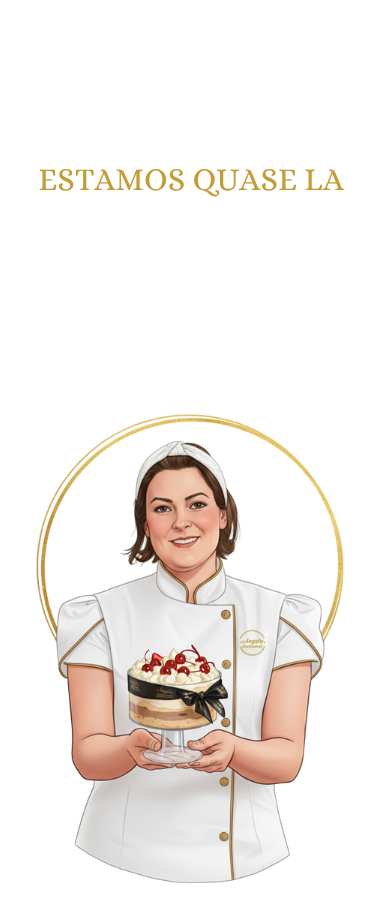
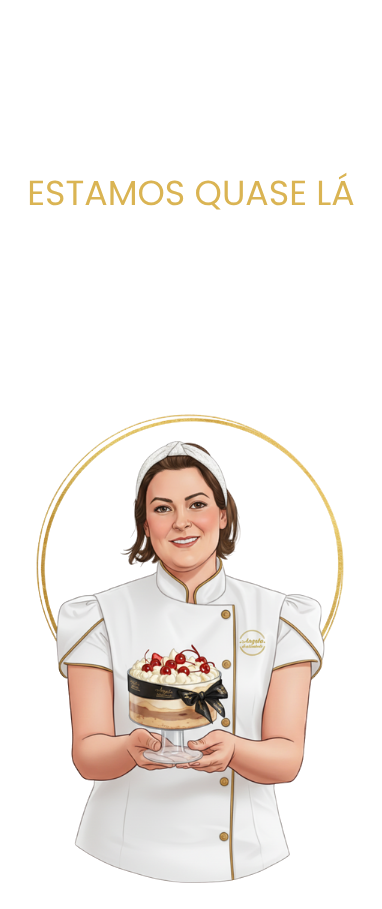
Ajustando Bio

diff --git a/menu.html b/menu.html
@@ -9,7 +9,7 @@
     <link rel="preconnect" href="https://fonts.googleapis.com" />
     <link rel="preconnect" href="https://fonts.gstatic.com" crossorigin />
     <link
-      href="https://fonts.googleapis.com/css2?family=Allura&family=Playfair+Display:wght@700&family=Poppins:wght@400;500;600&family=Dancing+Script:wght@400&display=swap"
+      href="https://fonts.googleapis.com/css2?family=Poppins:wght@400;500;600;700&display=swap"
       rel="stylesheet"
     />
     <link rel="stylesheet" href="menu.css" />
@@ -19,10 +19,10 @@
       href="https://cdn.jsdelivr.net/npm/flatpickr/dist/flatpickr.min.css"
     />
   </head>
-  <body class="bg-stone-50">
+  <body class="bg-stone-50 font-['Poppins']">
     <div
       class="fixed -right-16 top-1/2 -translate-y-1/2 text-[#D4AF37]/50 rotate-[-90deg] origin-bottom-right text-5xl pointer-events-none hidden md:block"
-      style="font-family: 'Dancing Script', cursive"
+      style="font-family: 'Poppins', sans-serif"
     >
       Angela Scatambulo
     </div>
@@ -30,7 +30,7 @@
       <div
         class="container mx-auto px-6 py-4 flex justify-between items-center"
       >
-        <h1 class="font-playfair text-2xl font-bold text-[#D4AF37]">
+        <h1 class="font-bold text-2xl text-[#D4AF37]">
           <a href="./menu.html">Scatambulo</a>
         </h1>
         <nav
@@ -142,7 +142,7 @@
             <div class="card-content p-4 flex flex-col justify-between flex-grow">
               <div>
                 <h3
-                  class="font-playfair text-xl font-semibold text-[#1C1C1C] mb-2 flex items-center gap-2"
+                  class="text-xl font-semibold text-[#1C1C1C] mb-2 flex items-center gap-2"
                 >
                   🍓 Nuvem de Morango
                 </h3>
@@ -219,7 +219,7 @@
             >
               <div>
                 <h3
-                  class="font-playfair text-xl font-semibold text-[#1C1C1C] mb-2 flex items-center gap-2"
+                  class="text-xl font-semibold text-[#1C1C1C] mb-2 flex items-center gap-2"
                 >
                    Doce de Leite Trufado
                 </h3>
@@ -293,7 +293,7 @@
             <div class="card-content p-4 flex flex-col justify-between flex-grow">
               <div>
               <h3
-                class="font-playfair text-xl font-semibold text-[#1C1C1C] mb-2 flex items-center gap-2"
+                class="text-xl font-semibold text-[#1C1C1C] mb-2 flex items-center gap-2"
               >
                 🌰 Strogonoff de Nozes
               </h3>
@@ -370,7 +370,7 @@
             <div class="card-content p-4 flex flex-col justify-between flex-grow">
               <div>
                 <h3
-                  class="font-playfair text-xl font-semibold text-[#1C1C1C] mb-2 flex items-center gap-2"
+                  class="text-xl font-semibold text-[#1C1C1C] mb-2 flex items-center gap-2"
                 >
                    Uva Crocante
                 </h3>
@@ -444,7 +444,7 @@
             >
               <div>
                 <h3
-                  class="font-playfair text-xl font-semibold text-[#1C1C1C] mb-2 flex items-center gap-2"
+                  class="text-xl font-semibold text-[#1C1C1C] mb-2 flex items-center gap-2"
                 >
                   ☕ Brigadeiro de Café
                 </h3>
@@ -517,7 +517,7 @@
             <div class="card-content p-4 flex flex-col justify-between flex-grow">
               <div>
                 <h3
-                  class="font-playfair text-xl font-semibold text-[#1C1C1C] mb-2 flex items-center gap-2"
+                  class="text-xl font-semibold text-[#1C1C1C] mb-2 flex items-center gap-2"
                 >
                   🍓 Morango com Suspiro
                 </h3>
@@ -590,7 +590,7 @@
             <div class="card-content p-4 flex flex-col justify-between flex-grow">
               <div>
               <h3
-                class="font-playfair text-xl font-semibold text-[#1C1C1C] mb-2 flex items-center gap-2"
+                class="text-xl font-semibold text-[#1C1C1C] mb-2 flex items-center gap-2"
               >
                 🍓 Sensação
               </h3>
@@ -663,7 +663,7 @@
             <div class="card-content p-4 flex flex-col justify-between flex-grow">
               <div>
               <h3
-                class="font-playfair text-xl font-semibold text-[#1C1C1C] mb-2 flex items-center gap-2"
+                class="text-xl font-semibold text-[#1C1C1C] mb-2 flex items-center gap-2"
               >
                 🍍 Abacaxi com Coco
               </h3>
@@ -736,7 +736,7 @@
             <div class="card-content p-4 flex flex-col justify-between flex-grow">
               <div>
               <h3
-                class="font-playfair text-xl font-semibold text-[#1C1C1C] mb-2 flex items-center gap-2"
+                class="text-xl font-semibold text-[#1C1C1C] mb-2 flex items-center gap-2"
               >
                 🥥 Olho de Sogra
               </h3>
@@ -809,7 +809,7 @@
             <div class="card-content p-4 flex flex-col justify-between flex-grow">
               <div>
               <h3
-                class="font-playfair text-xl font-semibold text-[#1C1C1C] mb-2 flex items-center gap-2"
+                class="text-xl font-semibold text-[#1C1C1C] mb-2 flex items-center gap-2"
               >
                 🍫 Casadinho
               </h3>
@@ -882,7 +882,7 @@
             <div class="card-content p-4 flex flex-col justify-between flex-grow">
               <div>
               <h3
-                class="font-playfair text-xl font-semibold text-[#1C1C1C] mb-2 flex items-center gap-2"
+                class="text-xl font-semibold text-[#1C1C1C] mb-2 flex items-center gap-2"
               >
                 🍫 Brigadeiro
               </h3>
@@ -954,7 +954,7 @@
             <div class="card-content p-4 flex flex-col justify-between flex-grow">
               <div>
               <h3
-                class="font-playfair text-xl font-semibold text-[#1C1C1C] mb-2 flex items-center gap-2"
+                class="text-xl font-semibold text-[#1C1C1C] mb-2 flex items-center gap-2"
               >
                 🍫 Trufa de Nutella
               </h3>
@@ -1029,7 +1029,7 @@
             <div class="card-content p-4 flex flex-col justify-between flex-grow">
               <div>
               <h3
-                class="font-playfair text-xl font-semibold text-[#D4AF37] mb-2 flex items-center gap-2"
+                class="text-xl font-semibold text-[#D4AF37] mb-2 flex items-center gap-2"
               >
                 🍓 Pistache com Frutas Vermelhas
               </h3>
@@ -1105,7 +1105,7 @@
             <div class="card-content p-4 flex flex-col justify-between flex-grow">
               <div>
               <h3
-                class="font-playfair text-xl font-semibold text-[#1C1C1C] mb-2 flex items-center gap-2"
+                class="text-xl font-semibold text-[#1C1C1C] mb-2 flex items-center gap-2"
               >
                 🍒 Floresta Branca
               </h3>
@@ -1372,7 +1372,7 @@
         <div
           class="flex justify-between items-center p-4 border-b border-gray-200/50 bg-white"
         >
-          <h2 class="text-xl font-semibold font-playfair text-black">
+          <h2 class="text-xl font-semibold text-black">
             Seu Carrinho
           </h2>
           <button
@@ -1446,7 +1446,7 @@
             <path stroke-linecap="round" stroke-linejoin="round" stroke-width="2" d="M6 18L18 6M6 6l12 12"></path>
           </svg>
         </button>
-        <h3 class="text-2xl font-playfair font-bold text-center text-[#D4AF37] mb-6">
+        <h3 class="text-2xl font-bold text-center text-[#D4AF37] mb-6">
           Por gentileza, preencha os dados
         </h3>
         <div
@@ -1532,7 +1532,7 @@
       <div
         class="bg-white p-4 rounded-2xl shadow-xl max-w-sm w-full relative mx-4 max-h-[85vh] overflow-y-auto flex flex-col"
       >
-        <h3 class="text-2xl font-playfair font-bold text-center text-[#D4AF37] mb-4">
+        <h3 class="text-2xl font-bold text-center text-[#D4AF37] mb-4">
           Novidade de Natal!
         </h3>
         <!-- O card do bolo será clonado aqui pelo JS -->

diff --git a/potes.html b/potes.html
@@ -13,7 +13,7 @@
     <link rel="preconnect" href="https://fonts.googleapis.com" />
     <link rel="preconnect" href="https://fonts.gstatic.com" crossorigin />
     <link
-      href="https://fonts.googleapis.com/css2?family=Inter:wght@300;400;500;600;700&family=Playfair+Display:wght@700&display=swap"
+      href="https://fonts.googleapis.com/css2?family=Poppins:wght@300;400;500;600;700&display=swap"
       rel="stylesheet"
     />
 
@@ -26,8 +26,7 @@
         theme: {
           extend: {
             fontFamily: {
-              sans: ["Inter", "sans-serif"],
-              playfair: ["'Playfair Display'", "serif"],
+              sans: ["Poppins", "sans-serif"],
             },
             colors: {
               primary: "#D4AF37",
@@ -49,7 +48,7 @@
       <div
         class="container mx-auto px-6 py-4 flex justify-between items-center"
       >
-        <h1 class="font-playfair text-3xl font-bold text-primary">
+        <h1 class="text-3xl font-bold text-primary">
           <a href="./menu.html" class="tracking-wide">Scatambulo</a>
         </h1>
         <nav
@@ -143,7 +142,7 @@
 
     <main class="container mx-auto px-4 py-12 md:py-16 max-w-6xl">
       <section class="text-center mb-16 md:mb-20">
-        <h2 class="text-4xl md:text-5xl font-playfair font-bold mb-4 text-text">
+        <h2 class="text-4xl md:text-5xl font-bold mb-4 text-text">
           Bolos no Potinho
         </h2>
         <p class="text-lg text-text-light max-w-3xl mx-auto leading-relaxed">
@@ -161,7 +160,7 @@
       <div class="flex flex-wrap justify-center gap-x-12 gap-y-16">
         <section id="batizado" class="scroll-mt-24">
           <h3
-            class="text-3xl md:text-4xl font-playfair font-bold text-center text-text mb-10"
+            class="text-3xl md:text-4xl font-bold text-center text-text mb-10"
           >
             Batizado
           </h3>
@@ -185,7 +184,7 @@
 
         <section id="confraternizacao" class="scroll-mt-24">
           <h3
-            class="text-3xl md:text-4xl font-playfair font-bold text-center text-text mb-10"
+            class="text-3xl md:text-4xl font-bold text-center text-text mb-10"
           >
             Confraternização
           </h3>
@@ -208,7 +207,7 @@
 
         <section id="corporativo" class="scroll-mt-24">
           <h3
-            class="text-3xl md:text-4xl font-playfair font-bold text-center text-text mb-10"
+            class="text-3xl md:text-4xl font-bold text-center text-text mb-10"
           >
             Corporativo
           </h3>
@@ -231,7 +230,7 @@
 
         <section id="casamento" class="scroll-mt-24">
           <h3
-            class="text-3xl md:text-4xl font-playfair font-bold text-center text-text mb-10"
+            class="text-3xl md:text-4xl font-bold text-center text-text mb-10"
           >
             Casamento
           </h3>
@@ -254,7 +253,7 @@
 
         <section id="aniversario" class="scroll-mt-24">
           <h3
-            class="text-3xl md:text-4xl font-playfair font-bold text-center text-text mb-10"
+            class="text-3xl md:text-4xl font-bold text-center text-text mb-10"
           >
             Aniversário
           </h3>
@@ -277,7 +276,7 @@
 
         <section id="datas-comemorativas" class="scroll-mt-24">
           <h3
-            class="text-3xl md:text-4xl font-playfair font-bold text-center text-text mb-10"
+            class="text-3xl md:text-4xl font-bold text-center text-text mb-10"
           >
             Datas Comemorativas: Natal
           </h3>
@@ -301,7 +300,7 @@
 
         <section id="lembrancinhas" class="scroll-mt-24">
           <h3
-            class="text-3xl md:text-4xl font-playfair font-bold text-center text-text mb-10"
+            class="text-3xl md:text-4xl font-bold text-center text-text mb-10"
           >
             Lembrancinhas
           </h3>
@@ -356,7 +355,7 @@
       class="fixed top-0 right-0 h-full w-full max-w-md bg-background shadow-2xl transform translate-x-full transition-transform duration-300 ease-in-out z-40 flex flex-col"
     >
       <div class="flex justify-between items-center p-5 border-b border-gray-200">
-        <h3 class="text-2xl font-playfair font-bold text-primary">
+        <h3 class="text-2xl font-bold text-primary">
           Potinhos Personalizados
         </h3>
         <button
@@ -493,7 +492,7 @@
         </button>
         <h3
           id="pedido-modal-title"
-          class="text-2xl font-playfair font-bold text-center text-primary mb-6"
+          class="text-2xl font-bold text-center text-primary mb-6"
         >
           Como Fazer seu Pedido:
         </h3>

diff --git a/index.html b/index.html
@@ -9,15 +9,12 @@
     <link rel="preconnect" href="https://fonts.googleapis.com" />
     <link rel="preconnect" href="https://fonts.gstatic.com" crossorigin />
     <link
-      href="https://fonts.googleapis.com/css2?family=Playfair+Display:wght@700&family=Poppins:wght@400;500&display=swap"
+      href="https://fonts.googleapis.com/css2?family=Poppins:wght@400;500;700&display=swap"
       rel="stylesheet"
     />
     <style>
       body {
         font-family: "Poppins", sans-serif;
-      }
-      .font-playfair {
-        font-family: "Playfair Display", serif;
       }
       .text-shadow {
         text-shadow: 2px 2px 8px rgba(0, 0, 0, 0.7);
@@ -111,7 +108,7 @@
 
         <!-- Título e Subtítulo para Desktop -->
         <div class="hidden md:block mb-8">
-          <h1 class="font-playfair text-5xl text-shadow mb-2">
+          <h1 class="text-5xl text-shadow mb-2 font-bold">
             Scatambulo Confeitaria
           </h1>
           <p class="text-lg text-gray-300">

diff --git a/packaging_customizer.html b/packaging_customizer.html
@@ -9,7 +9,7 @@
     <link rel="preconnect" href="https://fonts.googleapis.com" />
     <link rel="preconnect" href="https://fonts.gstatic.com" crossorigin />
     <link
-      href="https://fonts.googleapis.com/css2?family=Allura&family=Playfair+Display:wght@700&family=Poppins:wght@400;500;600&display=swap"
+      href="https://fonts.googleapis.com/css2?family=Poppins:wght@400;500;600;700&display=swap"
       rel="stylesheet"
     />
     <link rel="stylesheet" href="menu.css" />
@@ -78,7 +78,7 @@
       <div
         class="container mx-auto px-6 py-4 flex justify-between items-center"
       >
-        <h1 class="font-playfair text-2xl font-bold text-[#D4AF37]">
+        <h1 class="text-2xl font-bold text-[#D4AF37]">
           <a href="./menu.html">Scatambulo</a>
         </h1>
         <nav

diff --git a/carrinho.html b/carrinho.html
@@ -8,7 +8,7 @@
     <link rel="preconnect" href="https://fonts.googleapis.com" />
     <link rel="preconnect" href="https://fonts.gstatic.com" crossorigin />
     <link
-      href="https://fonts.googleapis.com/css2?family=Playfair+Display:wght@700&family=Poppins:wght@400;500;600&display=swap"
+      href="https://fonts.googleapis.com/css2?family=Poppins:wght@400;500;600;700&display=swap"
       rel="stylesheet"
     />
     <style>
@@ -28,7 +28,6 @@
     <div class="container mx-auto mt-10 p-4 min-h-screen flex flex-col">
       <h1
         class="text-3xl md:text-4xl font-bold mb-8 text-center text-[#D4AF37]"
-        style="font-family: 'Playfair Display', serif"
       >
         Meu Carrinho
       </h1>

diff --git a/menu.css b/menu.css
@@ -3,11 +3,7 @@ body {
   background-color: #faf8f0; /* Branco Perolado */
   color: #1c1c1c; /* Cinza Carvão */
 }
-.font-playfair {
-  font-family: "Playfair Display", serif;
-}
 h2 {
-  font-family: "Playfair Display", serif;
   color: #d4af37;
 }
 section {
@@ -31,7 +27,6 @@ section {
   font-weight: 600;
 }
 .side-name-right {
-  font-family: "Allura", cursive;
   position: fixed;
   right: 0;
   top: 50%;
